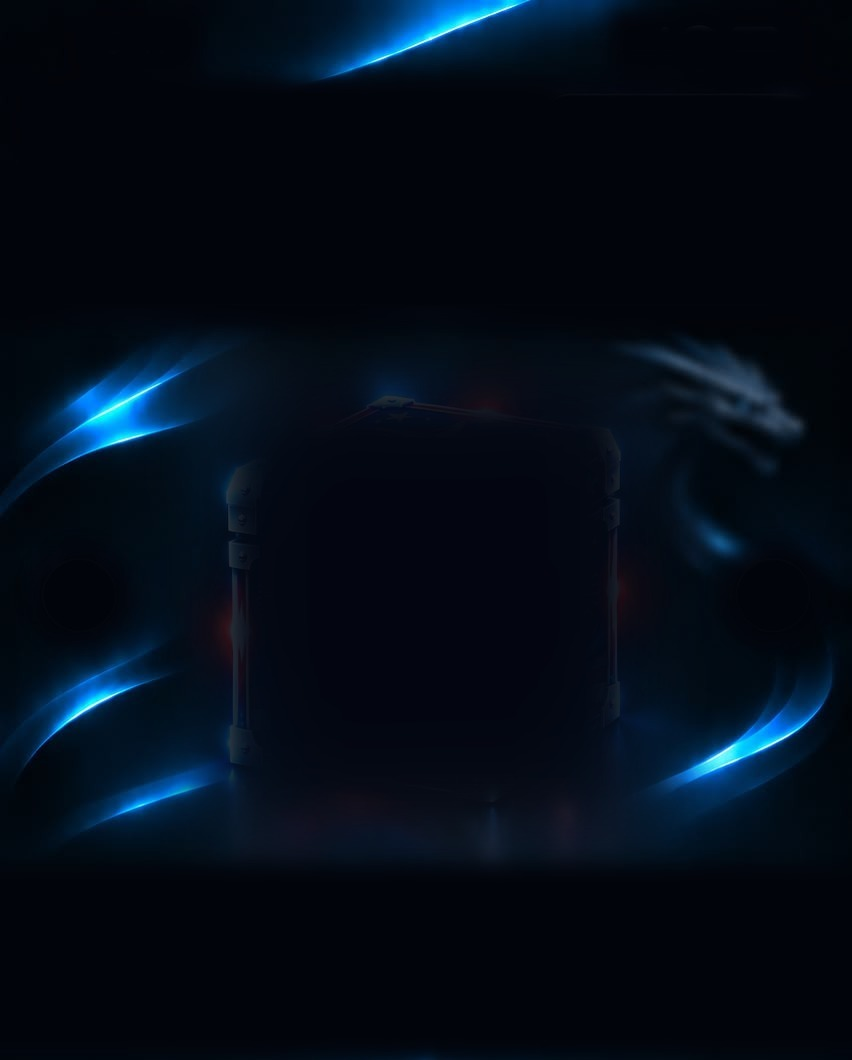
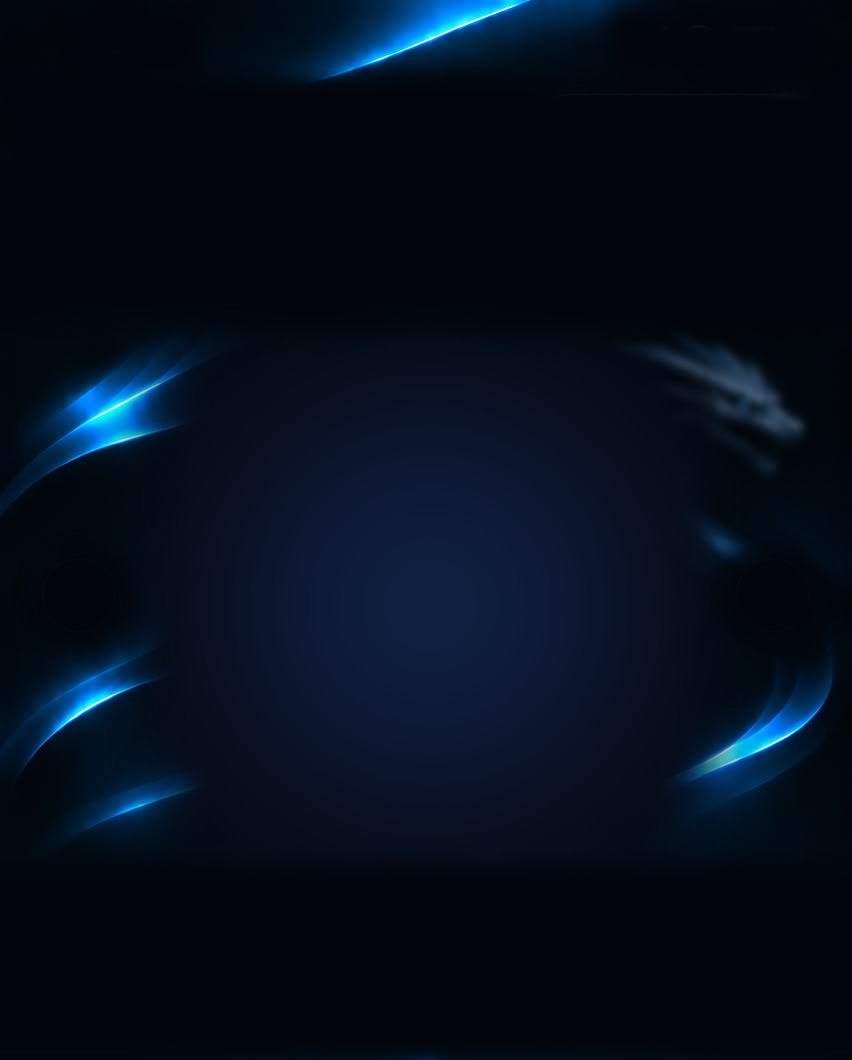
Mobile browser fit: drop dead status-bar/home-indicator space, bigger box, smooth haze behind it, wallet grows with the balance

diff --git a/index.html b/index.html
@@ -585,6 +585,21 @@ canvas.glowl{-webkit-mask-image:radial-gradient(closest-side,#000 62%,transparen
 .nav{top:calc(743.6px*var(--u) - var(--dy,0px) + var(--st,0px))!important}
 
 .t h1{white-space:nowrap!important;display:inline-block}   /* one line always; fitTitle() shrinks long names */
+
+/* mobile-browser pass: no dead status-bar / home-indicator space; the room goes to the box */
+.bg{background:url(assets/mk/bg_top.jpg) 0 calc(var(--st,0px) - 40px*var(--u))/100% auto no-repeat,url(assets/mk/bg_bot.jpg) left 0 bottom calc(10px - 54px*var(--u))/100% auto no-repeat,#02040b!important}
+.top{height:calc(106px*var(--u) + var(--st,0px))!important}
+.burger{top:calc(11px*var(--u) + var(--st,0px))!important}.mklogo,.top .hd img.mklogo{top:calc(4.299999999999997px*var(--u) + var(--st,0px))!important}.wallet{top:calc(3.799999999999997px*var(--u) + var(--st,0px))!important}.cats{top:calc(46.7px*var(--u) + var(--st,0px))!important}
+.views{padding-top:calc(106px*var(--u) + var(--st,0px))!important}
+#v-boxes{margin-top:calc(-1*calc(106px*var(--u) + var(--st,0px)))!important;min-height:calc(812px*var(--u) - var(--dy,0px) + var(--st,0px))!important}
+#giftBtn + .sec{margin-top:calc(812px*var(--u) - var(--dy,0px) + var(--st,0px))!important}
+.hero{top:calc(76px*var(--u) + var(--st,0px))!important}
+.inside4{top:calc(365px*var(--u) - var(--dyh,0px) + var(--st,0px))!important}
+.inside4 + .gline{top:calc(458.5px*var(--u) - var(--dy,0px) + var(--st,0px))!important}.vals + .gline{top:calc(568.5px*var(--u) - var(--dy,0px) + var(--st,0px))!important}
+.t{top:calc(470px*var(--u) - var(--dy,0px) + var(--st,0px))!important}.vals{top:calc(522px*var(--u) - var(--dy,0px) + var(--st,0px))!important}#buy.cta{top:calc(598px*var(--u) - var(--dy,0px) + var(--st,0px))!important}.gift{top:calc(653px*var(--u) - var(--dy,0px) + var(--st,0px))!important}.nav{top:calc(703.6px*var(--u) - var(--dy,0px) + var(--st,0px))!important}
+/* wallet grows with the balance (right-anchored) */
+.wallet{left:auto!important;right:calc(13.8px*var(--u))!important;width:auto!important;min-width:calc(131px*var(--u));display:flex!important;align-items:center;padding:0 calc(36px*var(--u)) 0 calc(32px*var(--u))!important}
+.wallet #bal{position:static!important;transform:none!important;white-space:nowrap}
 </style></head>
 <body>
 <div class="stage-glow" id="sg"></div>
@@ -867,8 +882,8 @@ const scr=$('#scr');
 function fitHero(){   // responsive: full width, header pinned top, BUY/gift/menu pinned bottom, the box area absorbs the difference
  const w=scr.clientWidth,h=scr.clientHeight,u=w/393;
  let pr=document.getElementById('saProbe');if(!pr){pr=document.createElement('div');pr.id='saProbe';pr.style.cssText='position:absolute;visibility:hidden;pointer-events:none;padding-top:env(safe-area-inset-top,0px);padding-bottom:env(safe-area-inset-bottom,0px)';scr.appendChild(pr)}
- const cs=getComputedStyle(pr),st=parseFloat(cs.paddingTop)||0,sb=Math.max(0,(parseFloat(cs.paddingBottom)||0)-10);
- const dy=852*u-(h-st-sb);let dyh=dy,hide=false;
+ const cs=getComputedStyle(pr),st=(parseFloat(cs.paddingTop)||0)+6,sb=Math.max(0,(parseFloat(cs.paddingBottom)||0)-6);
+ const dy=(758*u+10)-(h-st-sb);   // layout from logo row to menu (+10px under it); top/bottom reserves come from the real safe areaslet dyh=dy,hide=false;
  if(dy>40*u){hide=true;dyh=dy-80*u}   // the inside row rises faster than the box shrinks: drop it early on short screens
  dyh=Math.max(-120*u,Math.min(dyh,172*u));
  const S=(k,v)=>scr.style.setProperty(k,v);S('--u',u);S('--ox','0px');S('--st',st+'px');S('--dy',dy+'px');S('--dyh',dyh+'px');
